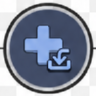
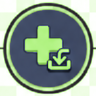
Rendre aux nœuds du panthéon les couleurs que le jeu leur donne
Les icônes de l'arbre ont été découpées dans la capture d'un compte réel,
et le jeu dessine en bleu-gris tout nœud non encore débloqué : sur les
vingt-deux icônes d'une classe, quatre seulement arrivaient en couleur.
L'arbre entier paraissait éteint, et une croix de soin ne se distinguait
plus d'une cible de dégâts. Aucun filtre ne pouvait le rattraper — la
couleur manquait dans le fichier.

La référence était pourtant là : chaque nœud rapporte une statistique, et
chaque statistique a son icône officielle, où la croix des soins est
verte et la cible des dégâts uniques jaune. tools/couleur-noeud.js relève
la teinte dominante et la saturation de ces icônes, et les reporte sur le
dessin du nœud — sur le dessin seulement, car dans le jeu le disque reste
bleu nuit et c'est l'emblème qui porte la couleur.

Les quatre icônes déjà colorées sont reconnues et laissées telles quelles :
ce que le jeu a rendu vaut mieux que ce qu'on repeint. Les originaux
restent dans images/pantheon/brut/, ce qui rend l'outil rejouable.

Cinq nœuds par classe sont des effets de combat, sans statistique et donc
sans référence de couleur : ils prennent l'or par défaut, faute de mieux,
et c'est le seul endroit de l'outil où la couleur est un choix.

Le libellé « Puissance affichée par le jeu » se cassait au passage sur
quatre lignes : la colonne du héros fait 228 px et le champ lui en
laissait quarante. Il passe au-dessus du champ, où il tient d'un trait.

Changed region(s): [[0.0, 0.0, 1.0, 1.0], [0.25, 0.25, 0.75, 0.75]]

diff --git a/tools/couleur-noeud.js b/tools/couleur-noeud.js
@@ -1,0 +1,159 @@
+'use strict';
+// Rend leur couleur aux icônes de l'arbre de panthéon.
+//
+// POURQUOI. Les icônes viennent d'une capture de l'arbre d'un compte réel, et le
+// jeu dessine EN BLEU-GRIS tout nœud qui n'est pas encore débloqué. Sur les
+// vingt-deux icônes d'une classe, quatre seulement — celles que le héros avait
+// prises — sont en couleur ; les dix-huit autres arrivent délavées. À l'écran,
+// l'arbre entier paraît éteint et une croix de soin ne se distingue plus d'une
+// cible de dégâts.
+//
+// LA COULEUR N'EST PAS INVENTÉE. Chaque nœud rapporte une statistique, et chaque
+// statistique a son icône officielle dans images/stats/ : la croix des soins y
+// est verte, la cible des dégâts uniques jaune, le bouclier cyan, les points de
+// vie rouges. C'est de là que vient la table TEINTES ci-dessous — teinte
+// dominante et saturation moyenne, mesurées sur ces icônes-là.
+//
+// CE QU'ON REPEINT, ET CE QU'ON LAISSE. Seul le DESSIN prend la couleur, pas la
+// pastille : dans le jeu, le disque reste bleu nuit et c'est l'emblème posé
+// dessus qui porte la teinte. On ne touche donc qu'aux pixels clairs, et
+// d'autant plus qu'ils sont clairs — le cerne sombre du disque ne bouge pas.
+//
+// Les icônes d'origine sont conservées dans images/pantheon/brut/<Classe>/ :
+// c'est de là que l'outil relit, ce qui le rend rejouable sans dégrader.
+//
+//   node tools/couleur-noeud.js            toutes les classes disponibles
+//   node tools/couleur-noeud.js SingleStriker
+
+const fs = require('node:fs');
+const path = require('node:path');
+const png = require('./png.js');
+
+const RACINE = path.join(__dirname, '..');
+const DOSSIER = path.join(RACINE, 'images', 'pantheon');
+const BRUT = path.join(DOSSIER, 'brut');
+
+global.window = {};
+eval(fs.readFileSync(path.join(RACINE, 'pantheon-jeu.js'), 'utf8'));
+const PANTHEON = global.window.PANTHEON_JEU;
+
+// Teinte (en degrés) et saturation de l'icône officielle de chaque statistique.
+// Relevées sur images/stats/ : histogramme des teintes pondéré par la saturation,
+// pic retenu. Deux d'entre elles sont bleues — la défense et la vitesse de
+// déplacement — et c'est normal : le jeu les dessine ainsi. Ce qui change pour
+// elles, c'est la saturation, qui les sort du gris.
+const TEINTES = {
+  CritChance: [35, 0.77],
+  CritDamage: [35, 0.77],
+  BasicAttackDamageAmp: [15, 0.73],
+  AttackSpeed: [35, 0.78],
+  HealTakenAmp: [95, 0.88],
+  ShieldTakenAmp: [195, 0.69],
+  MoveSpeed: [215, 0.68],
+  Evasion: [35, 0.91],
+  InitialFocusInSecondsBonus: [35, 0.92],
+  BaseDamage: [15, 0.72],
+  SingleTargetDamageAmp: [35, 0.92],
+  Attack: [35, 0.81],
+  Defense: [205, 0.72],
+  MaxHitPoints: [345, 0.91],
+};
+
+// Cinq nœuds par classe ne touchent aucune statistique : ce sont des effets de
+// combat, et rien ne dit de quelle couleur le jeu les peint. Faute de référence,
+// ils prennent l'or, la teinte la plus répandue du jeu. C'est le seul endroit de
+// cet outil où la couleur est un choix et non un relevé.
+const OR = [35, 0.8];
+
+// En dessous de cette clarté, on est sur le disque et son cerne : on n'y touche
+// pas. Au-dessus, on est sur le dessin.
+const CLARTE_DESSIN = 0.42;
+
+// Une icône dont le dessin est déjà coloré est un nœud que le compte avait
+// débloqué : le jeu l'a rendue en couleur, elle est meilleure que tout ce qu'on
+// pourrait peindre. On la laisse.
+const SATURATION_DEJA_COLOREE = 0.22;
+
+const versHsl = (r, g, b) => {
+  r /= 255; g /= 255; b /= 255;
+  const mx = Math.max(r, g, b), mn = Math.min(r, g, b), d = mx - mn;
+  const l = (mx + mn) / 2;
+  if (!d) return [0, 0, l];
+  const s = l > 0.5 ? d / (2 - mx - mn) : d / (mx + mn);
+  let h;
+  if (mx === r) h = 60 * (((g - b) / d) % 6);
+  else if (mx === g) h = 60 * ((b - r) / d + 2);
+  else h = 60 * ((r - g) / d + 4);
+  return [h < 0 ? h + 360 : h, s, l];
+};
+
+const versRvb = (h, s, l) => {
+  const c = (1 - Math.abs(2 * l - 1)) * s;
+  const x = c * (1 - Math.abs((h / 60) % 2 - 1));
+  const m = l - c / 2;
+  const table = [[c, x, 0], [x, c, 0], [0, c, x], [0, x, c], [x, 0, c], [c, 0, x]];
+  const [r, g, b] = table[Math.floor(h / 60) % 6];
+  return [Math.round((r + m) * 255), Math.round((g + m) * 255), Math.round((b + m) * 255)];
+};
+
+// La saturation moyenne des pixels clairs : c'est elle qui dit si le dessin a
+// gardé ses couleurs ou s'il est arrivé délavé.
+function saturationDuDessin(image) {
+  const { largeur, hauteur, pixels } = image;
+  let somme = 0, n = 0;
+  for (let i = 0; i < largeur * hauteur; i++) {
+    if (pixels[i * 4 + 3] < 128) continue;
+    const [, s, l] = versHsl(pixels[i * 4], pixels[i * 4 + 1], pixels[i * 4 + 2]);
+    if (l < CLARTE_DESSIN) continue;
+    somme += s; n++;
+  }
+  return n ? somme / n : 0;
+}
+
+function teinter(image, teinte, saturation) {
+  const { largeur, hauteur, pixels } = image;
+  for (let i = 0; i < largeur * hauteur; i++) {
+    if (pixels[i * 4 + 3] < 8) continue;
+    const [, s, l] = versHsl(pixels[i * 4], pixels[i * 4 + 1], pixels[i * 4 + 2]);
+    if (l < CLARTE_DESSIN) continue;
+    // La teinte se pose progressivement : à peine sur le bord du dessin, à
+    // pleine force en son cœur. Sans cela, le contour du dessin trancherait net
+    // sur le disque, comme un autocollant.
+    const force = Math.min(1, (l - CLARTE_DESSIN) / 0.45);
+    const [r, g, b] = versRvb(teinte, Math.min(1, s + (saturation - s) * force), l);
+    pixels[i * 4] = r; pixels[i * 4 + 1] = g; pixels[i * 4 + 2] = b;
+  }
+  return image;
+}
+
+function traiter(classe) {
+  const arrivee = path.join(DOSSIER, classe);
+  if (!fs.existsSync(arrivee)) return;
+  const origine = path.join(BRUT, classe);
+  fs.mkdirSync(origine, { recursive: true });
+
+  const noeuds = PANTHEON[classe]?.noeuds || PANTHEON[classe] || {};
+  console.log(`\n${classe}`);
+
+  for (const fichier of fs.readdirSync(arrivee).filter((f) => f.endsWith('.png')).sort()) {
+    const brut = path.join(origine, fichier);
+    // Premier passage : l'icône telle que la capture l'a donnée est mise de côté.
+    if (!fs.existsSync(brut)) fs.copyFileSync(path.join(arrivee, fichier), brut);
+
+    const image = png.lire(brut);
+    const dejaColoree = saturationDuDessin(image) >= SATURATION_DEJA_COLOREE;
+    if (dejaColoree) {
+      fs.copyFileSync(brut, path.join(arrivee, fichier));
+      console.log(`  ${fichier.padEnd(20)} déjà en couleur dans le jeu — laissée telle quelle`);
+      continue;
+    }
+
+    const stat = (noeuds[fichier.replace(/\.png$/, '')]?.effets || []).map((e) => e.stat).find(Boolean);
+    const [teinte, saturation] = TEINTES[stat] || OR;
+    png.ecrire(path.join(arrivee, fichier), teinter(image, teinte, saturation));
+    console.log(`  ${fichier.padEnd(20)} ${(stat || 'effet de combat').padEnd(28)} teinte ${teinte}°${stat ? '' : ' (or par défaut)'}`);
+  }
+}
+
+const demandee = process.argv[2];
+for (const classe of demandee ? [demandee] : Object.keys(PANTHEON)) traiter(classe);

diff --git a/style.css b/style.css
@@ -1945,7 +1945,11 @@ td.principal { font-weight: 600; }
   margin-top: 9px;
   font-size: 12.5px;
 }
-.calibrage label { color: var(--discret); }
+/* « Puissance affichée par le jeu » ne tient pas à côté du champ : la colonne
+   du héros fait 228 px, le champ et son bouton en prennent déjà 180, et il
+   restait quarante pixels au libellé — qui se cassait sur quatre lignes. Il
+   passe donc au-dessus, sur toute la largeur, où il tient d'un trait. */
+.calibrage label { color: var(--discret); white-space: nowrap; font-size: 11.5px; }
 /* LE CHAMP DOIT POUVOIR SE LIRE PENDANT QU'ON TAPE. En sept caractères et onze
    points et demi, il n'en montrait que trois — « 30. » — et les deux flèches du
    champ numérique lui prenaient encore de la place. On les retire, et le champ
@@ -1990,7 +1994,14 @@ td.principal { font-weight: 600; }
   text-underline-offset: 2px;
 }
 .calibrage .lienCalibrage:hover { color: var(--texte); }
-.formCalibrage { display: inline-flex; align-items: center; gap: 6px; }
+.formCalibrage {
+  display: grid;
+  grid-template-columns: auto auto;
+  justify-content: center;
+  align-items: center;
+  gap: 5px 8px;
+}
+.formCalibrage label { grid-column: 1 / -1; }
 .formCalibrage[hidden] { display: none; }
 .avertCalibrage {
   display: block;
@@ -2136,7 +2147,13 @@ td.principal { font-weight: 600; }
    sur ceux qu'on avait changés. Trop de marques d'un coup : l'arbre se lisait
    comme un tableau de bord en alarme. */
 
-.noeudArbre img { filter: grayscale(1) brightness(.5); transition: filter .16s ease; }
+/* Le gris complet allait trop loin : l'arbre entier était éteint, et les
+   dessins — une épée sur des flammes, un bouclier, un éclair — ne se
+   distinguaient plus les uns des autres. Un nœud non pris garde donc ses
+   couleurs, simplement lavées et rentrées d'un cran ; le nœud pris les a
+   pleines, et le halo achève de le dire. La différence reste nette sans que
+   l'écran devienne monochrome. */
+.noeudArbre img { filter: saturate(.8) brightness(.78); transition: filter .16s ease; }
 .noeudArbre.actif img { filter: none; }
 
 /* Le halo est porté par un calque à part : il déborde de la pastille sans
@@ -2161,8 +2178,8 @@ td.principal { font-weight: 600; }
    peuvent plus l'être. Rien de barré ni de cadenassé — le dessin recule d'un cran
    et le curseur le dit. La bulle, elle, explique pourquoi. */
 .noeudArbre.complet { cursor: default; }
-.noeudArbre.complet img { opacity: .4; }
-.noeudArbre.complet:hover img { filter: grayscale(1) brightness(.5); opacity: .55; }
+.noeudArbre.complet img { opacity: .45; filter: saturate(.35) brightness(.65); }
+.noeudArbre.complet:hover img { filter: saturate(.35) brightness(.65); opacity: .55; }
 .noeudArbre.complet:hover::after { box-shadow: none; }
 
 .videArbre { text-align: center; padding: 8px 0; }
@@ -2246,7 +2263,7 @@ td.principal { font-weight: 600; }
 }
 .noeudArbre.sansIcone .emblemeNoeud { display: grid; place-items: center; }
 .noeudArbre.sansIcone .emblemeNoeud img { width: 24px; height: 24px; }
-.noeudArbre.sansIcone.eteint .emblemeNoeud { opacity: .4; filter: grayscale(1); }
+.noeudArbre.sansIcone.eteint .emblemeNoeud { opacity: .6; filter: saturate(.55); }
 .noeudArbre.sansIcone:hover .emblemeNoeud { opacity: 1; filter: none; }
 .emblemeCombat { font-size: 1.1rem; color: var(--discret); }
 

diff --git a/index.html b/index.html
@@ -13,7 +13,7 @@
        ce qui garantit au visiteur un jeu de fichiers cohérent. D'où la lettre qui
        suit la date : deux envois le même jour doivent porter deux jetons
        différents, sans quoi le correctif ne sert à rien. -->
-  <link rel="stylesheet" href="style.css?v=2026-08-28b">
+  <link rel="stylesheet" href="style.css?v=2026-08-28d">
   <script>
     // Le thème retenu s'applique avant le premier affichage. Sans cela, la page
     // apparaîtrait une fraction de seconde en sombre avant de passer au clair.
@@ -325,6 +325,6 @@
 <script src="capacites-jeu.js?v=2026-08-23a"></script>
 <script src="noms-fr.js?v=2026-08-23a"></script>
 <script src="formules.js?v=2026-08-23a"></script>
-<script src="app.js?v=2026-08-28b"></script>
+<script src="app.js?v=2026-08-28d"></script>
 </body>
 </html>
